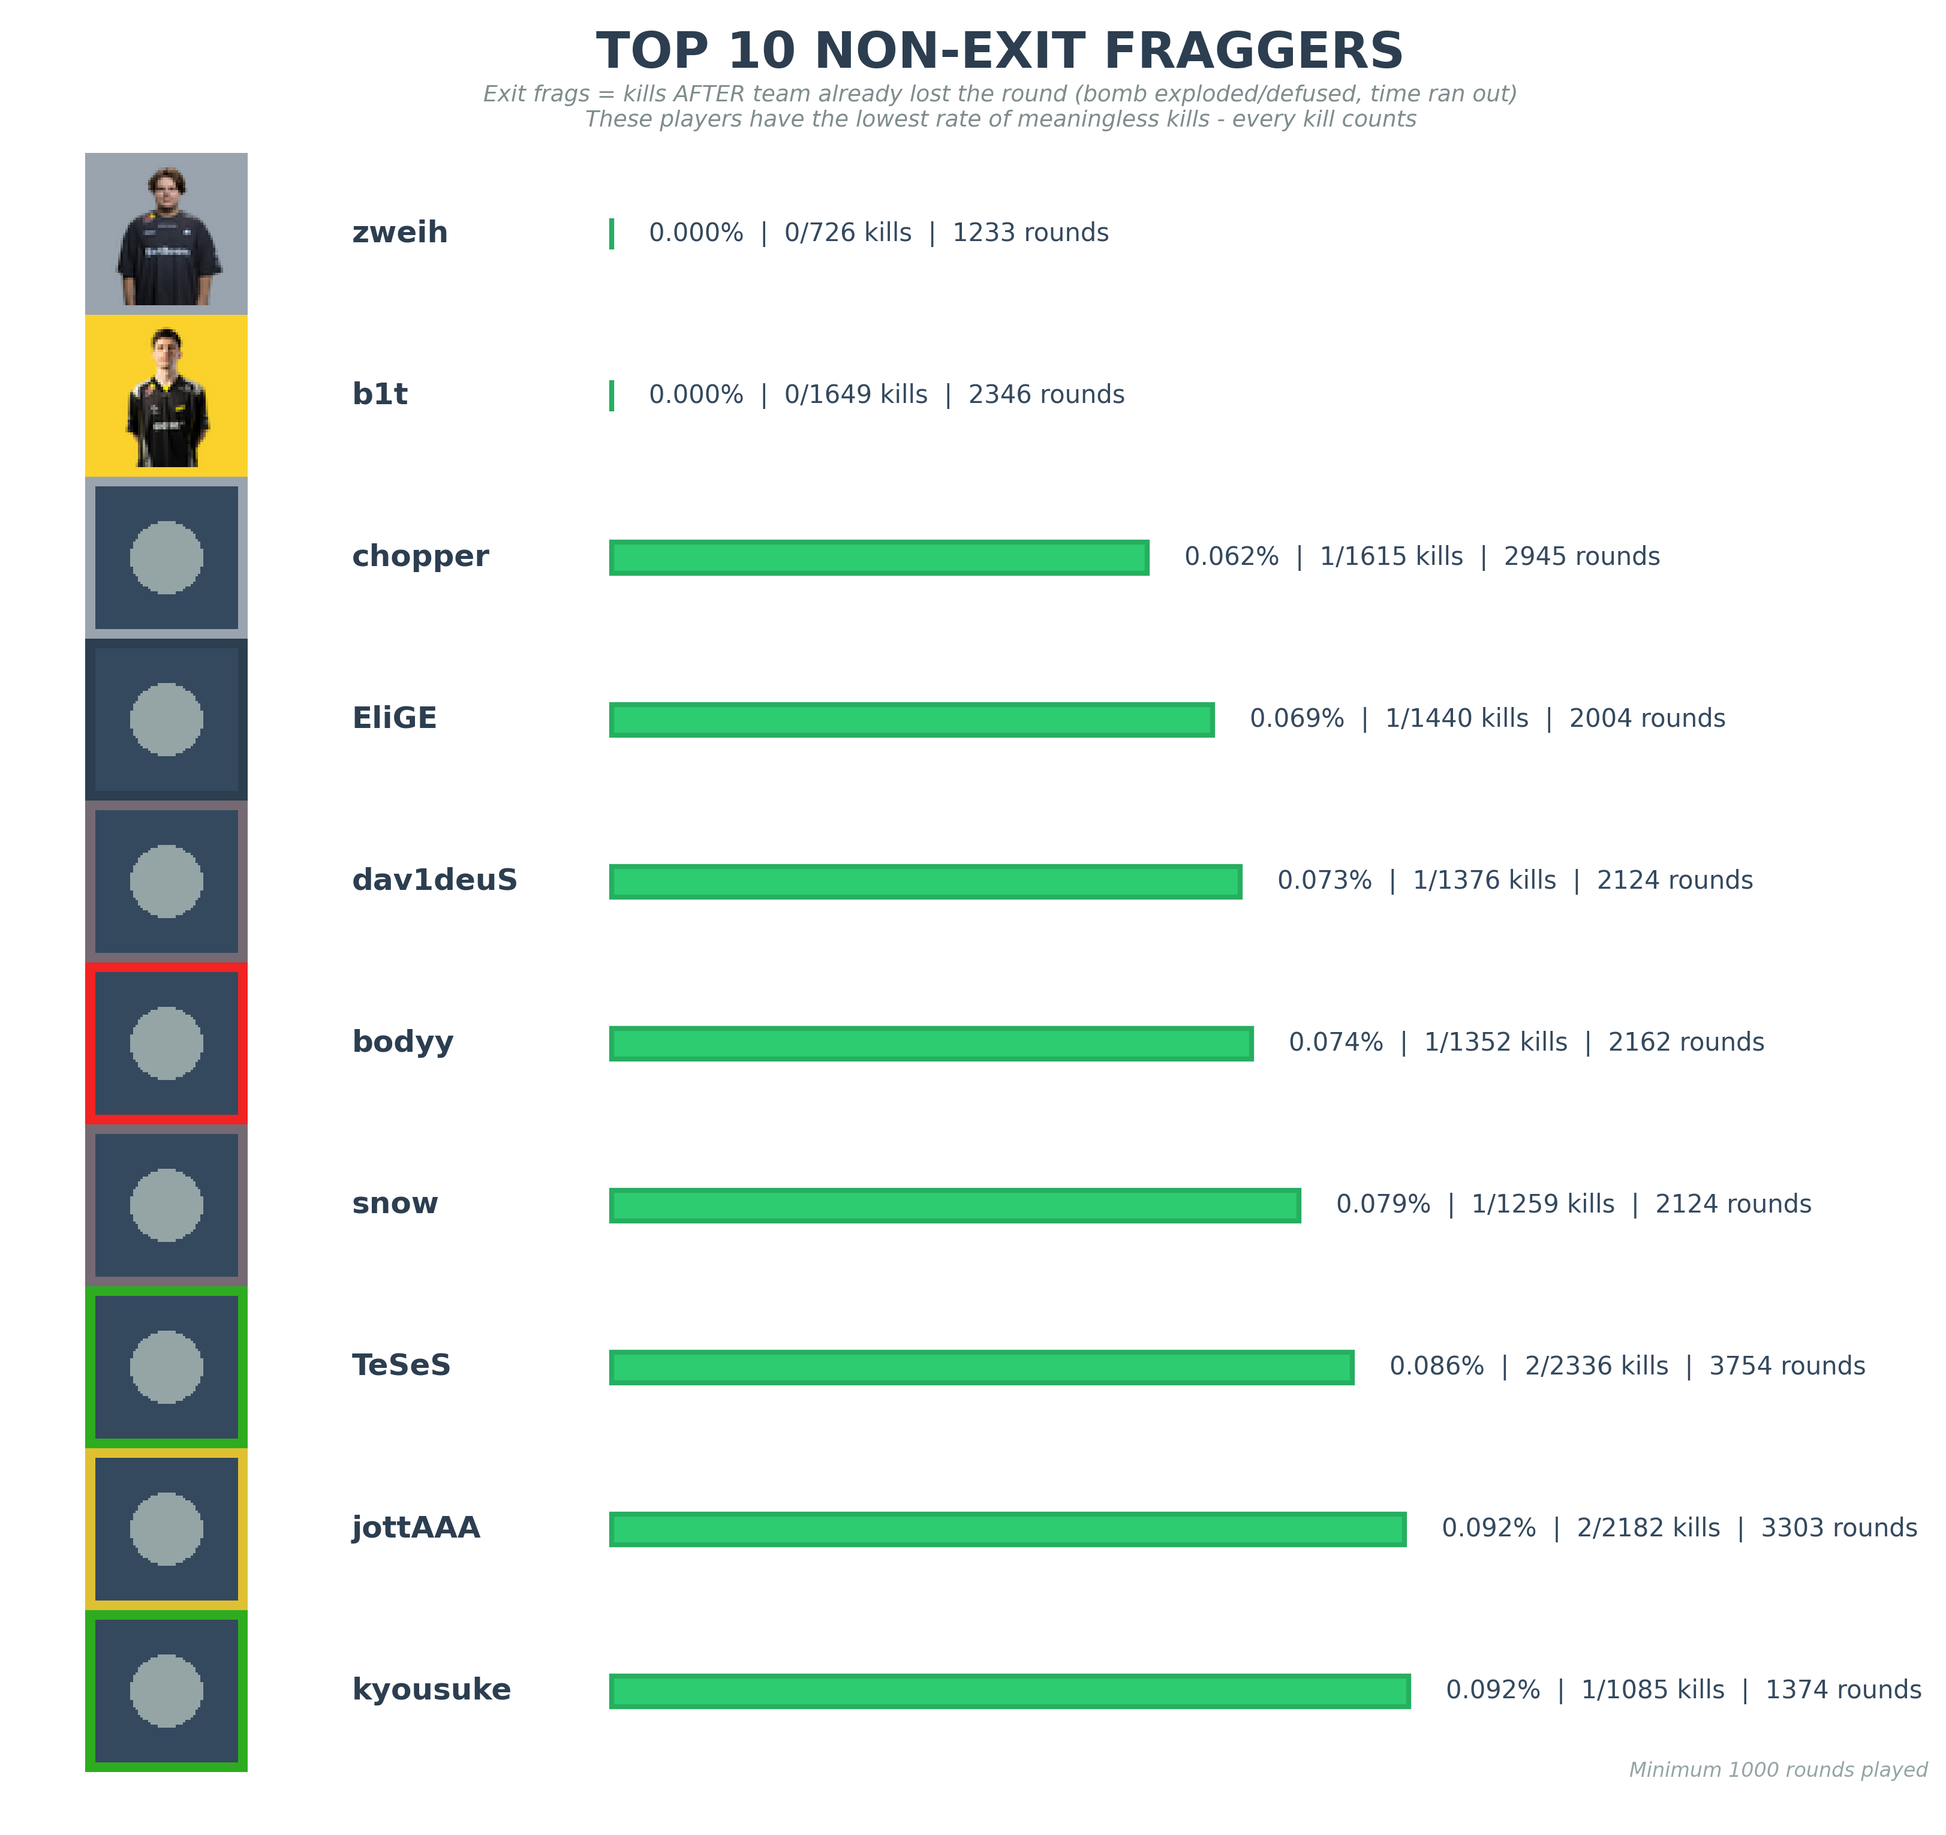
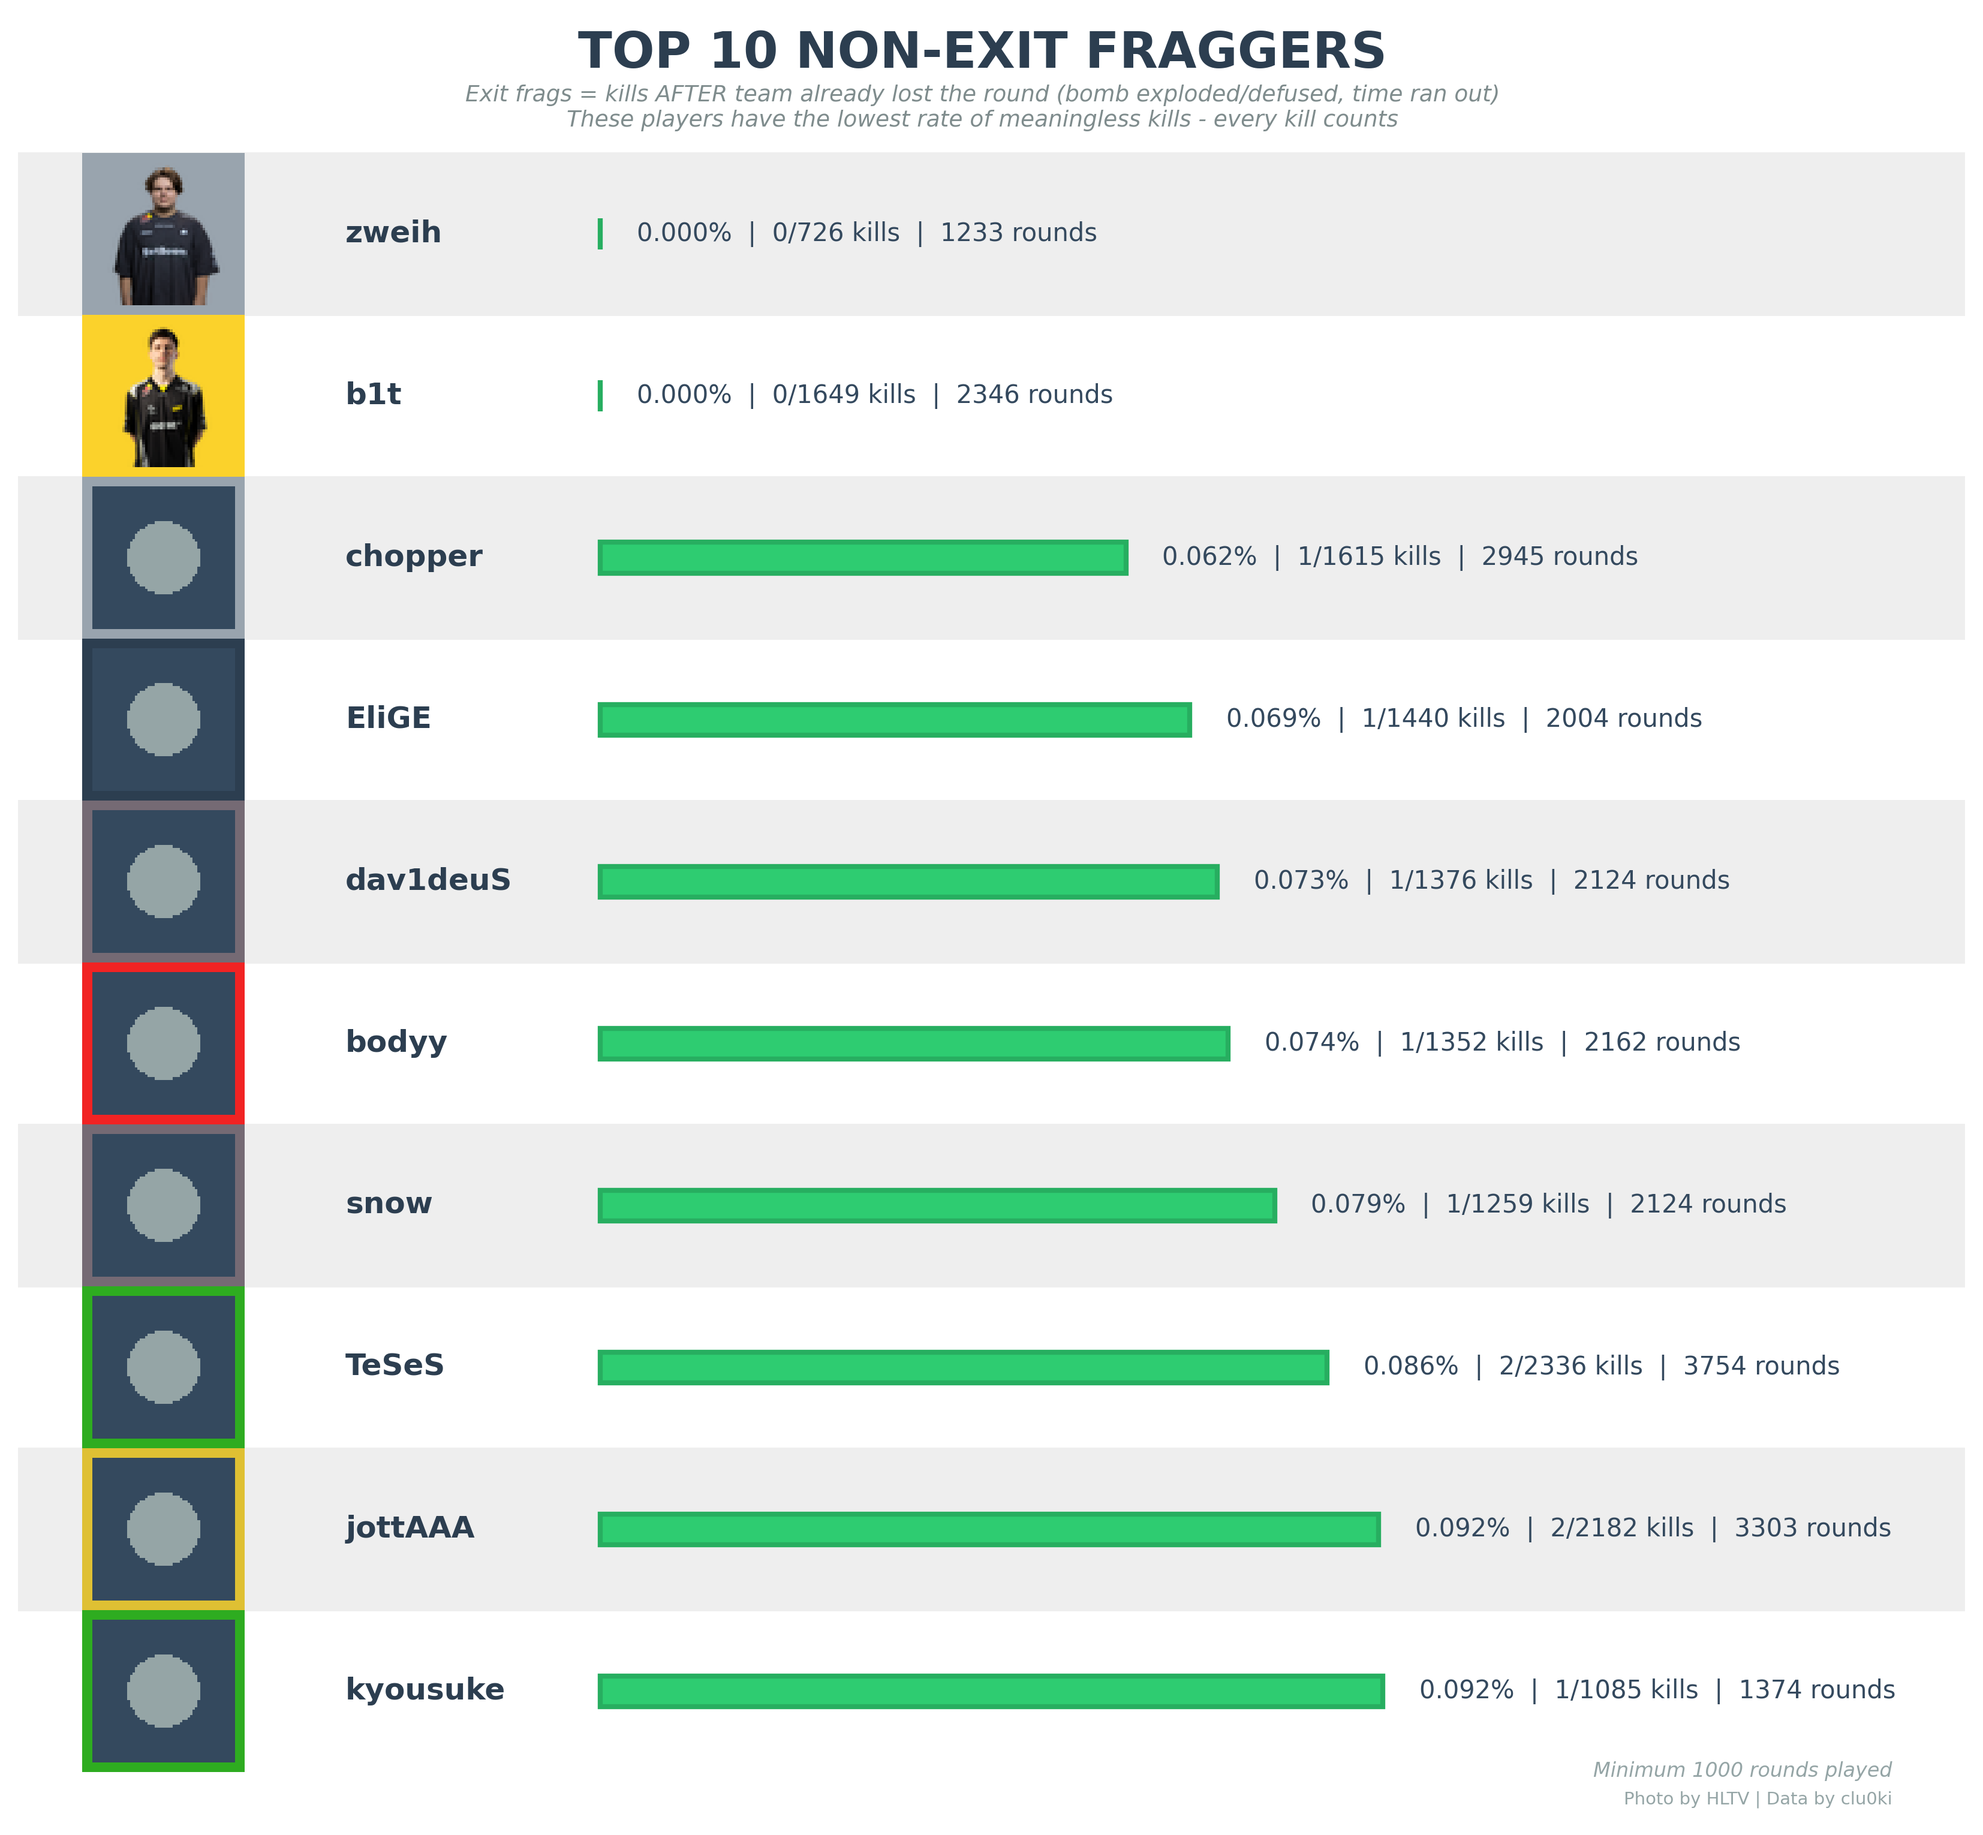
viz update

diff --git a/exit_frag/exit_frag_visualize.py b/exit_frag/exit_frag_visualize.py
@@ -258,7 +258,7 @@ def create_exit_frag_chart(data, title, subtitle, output_file, is_top=True):
     fig, ax = plt.subplots(figsize=(FIGURE_WIDTH_INCHES, FIGURE_HEIGHT_INCHES))
     
     # Remove all axes
-    ax.set_xlim(0, 100)
+    ax.set_xlim(0, 105)
     ax.set_ylim(0, 100)
     ax.axis('off')
     
@@ -283,6 +283,13 @@ def create_exit_frag_chart(data, title, subtitle, output_file, is_top=True):
         
         # Calculate Y position (fixed spacing)
         y_pos = 100 - Y_START - (idx * Y_SPACING)
+        
+        # Add grey background for odd rows (idx 1, 3, 5, 7, 9)
+        if idx % 2 == 0:
+            grey_rect = plt.Rectangle((0, y_pos - 4.575), 107, BAR_HEIGHT*5.35,
+                                     facecolor="#eeeeee", edgecolor='none',
+                                     zorder=0, transform=ax.transData, clip_on=False)
+            ax.add_patch(grey_rect)
         
         # 1. Add photo at FIXED X position with team color background
         team_name = PLAYER_TEAMS.get(player_name, "default")
@@ -333,6 +340,12 @@ def create_exit_frag_chart(data, title, subtitle, output_file, is_top=True):
     ax.text(103, 2, f'Minimum {MIN_ROUNDS} rounds played',
            ha='right', va='bottom',
            fontsize=8, style='italic', color='#95a5a6',
+           transform=ax.transData)
+    
+    # 8. Add credits
+    ax.text(103, 0.5, 'Photo by HLTV | Data by clu0ki',
+           ha='right', va='bottom',
+           fontsize=7, color='#95a5a6',
            transform=ax.transData)
     
     plt.tight_layout(pad=0)
